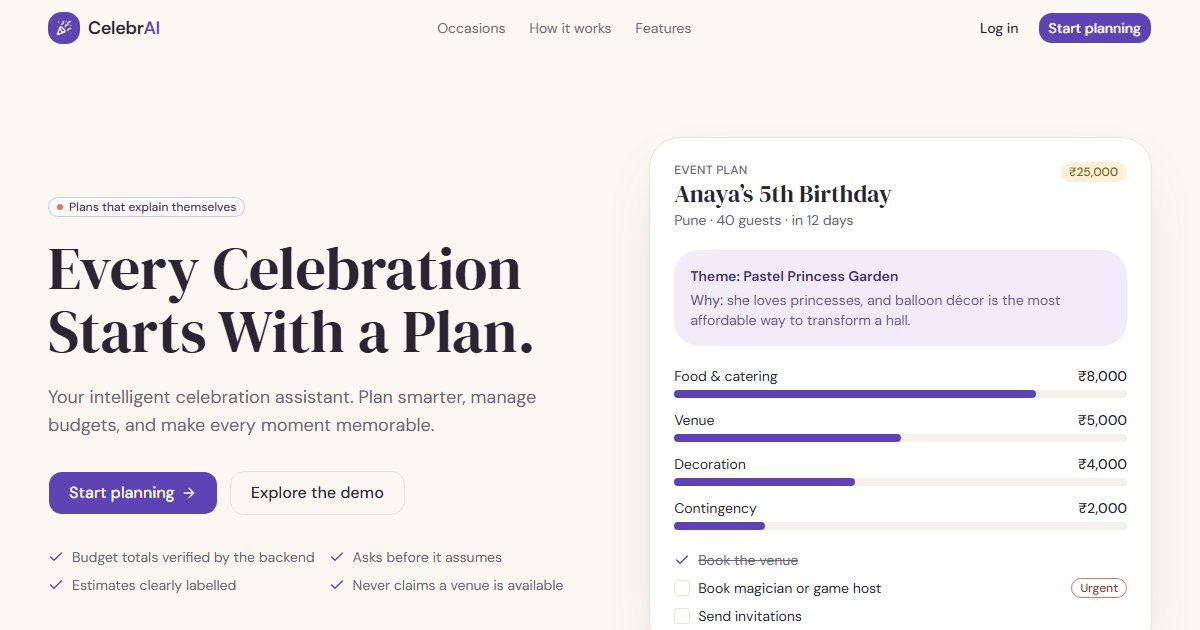
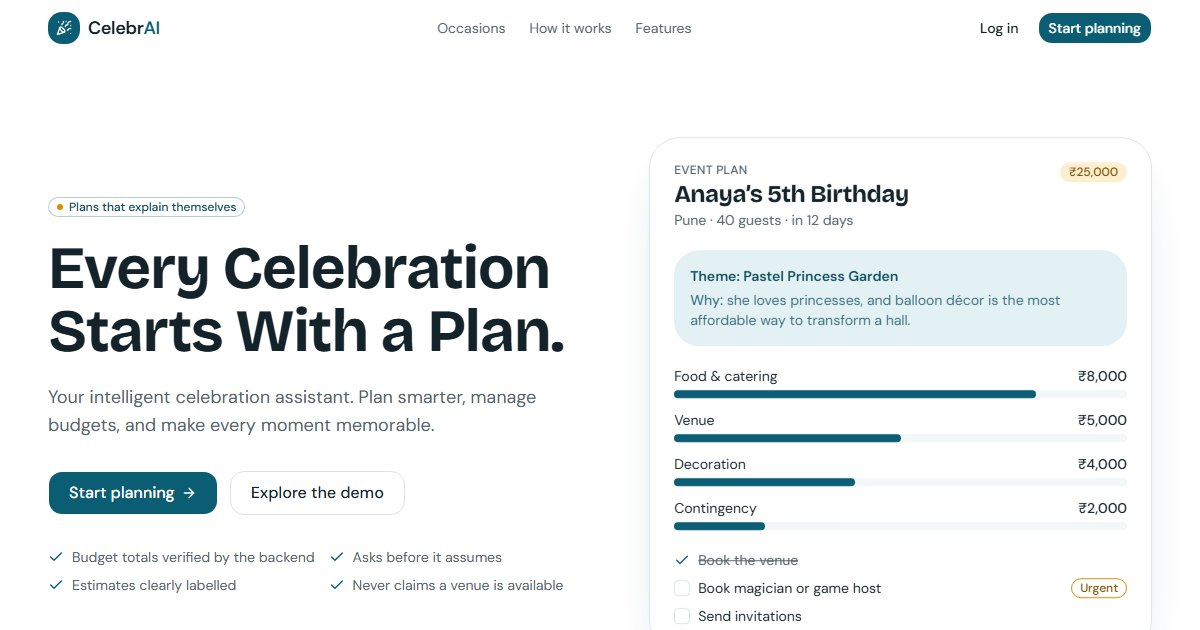
design: Peacock & Marigold refresh
- Palette: peacock blue (#0B5D73) primary with marigold accents on a
  white background, replacing violet, coral and cream. Every text pair
  checked for WCAG AA (lowest 5.13:1).
- Headings: Bricolage Grotesque (self-hosted) instead of DM Serif
  Display.
- Motion: no fade-up on page changes or the hero text; only the plan
  preview card keeps one entrance.
- Favicon, PNG icons, 404 page and the 1200x630 share image updated to
  the new look.

diff --git a/client/src/index.css b/client/src/index.css
@@ -2,12 +2,12 @@
 @import "tw-animate-css";
 @import "shadcn/tailwind.css";
 @import "@fontsource-variable/dm-sans";
-@import "@fontsource/dm-serif-display";
+@import "@fontsource-variable/bricolage-grotesque";
 
 @custom-variant dark (&:is(.dark *));
 
 @theme inline {
-    --font-heading: 'DM Serif Display', Georgia, serif;
+    --font-heading: 'Bricolage Grotesque Variable', system-ui, sans-serif;
     --font-sans: 'DM Sans Variable', system-ui, sans-serif;
     --color-coral: var(--coral);
     --color-coral-soft: var(--coral-soft);
@@ -55,44 +55,44 @@
 }
 
 :root {
-    /* CelebrAI palette: warm ivory, soft purple, coral and gold accents (AA-checked text pairs) */
-    --background: #FBF8F3;
-    --foreground: #2A2433;
+    /* CelebrAI palette: peacock blue with marigold accents on white (AA-checked text pairs) */
+    --background: #FFFFFF;
+    --foreground: #14232A;
     --card: #FFFFFF;
-    --card-foreground: #2A2433;
+    --card-foreground: #14232A;
     --popover: #FFFFFF;
-    --popover-foreground: #2A2433;
-    --primary: #5E43B5;
+    --popover-foreground: #14232A;
+    --primary: #0B5D73;
     --primary-foreground: #FFFFFF;
-    --secondary: #F1ECFA;
-    --secondary-foreground: #3F2D80;
-    --muted: #F4F0EA;
-    --muted-foreground: #6B6474;
-    --accent: #FDEDEA;
-    --accent-foreground: #9C3B2C;
+    --secondary: #E3F1F4;
+    --secondary-foreground: #0A4A5C;
+    --muted: #F4F7F8;
+    --muted-foreground: #52636B;
+    --accent: #FDEFCF;
+    --accent-foreground: #7A4F00;
     --destructive: #B4321F;
-    --border: #E9E2D8;
-    --input: #DDD5CA;
-    --ring: #8B72D6;
-    --coral: #E8735F;
-    --coral-soft: #FDEDEA;
-    --gold: #C9962B;
-    --gold-soft: #FBF0D9;
-    --gold-foreground: #8A6212;
-    --chart-1: #5E43B5;
-    --chart-2: #E8735F;
-    --chart-3: #C9962B;
-    --chart-4: #A794E0;
-    --chart-5: #F3B3A6;
+    --border: #DCE4E7;
+    --input: #CBD6DA;
+    --ring: #3A8FA6;
+    --coral: #D98C0A;
+    --coral-soft: #FDEFCF;
+    --gold: #E9A21C;
+    --gold-soft: #FDEFCF;
+    --gold-foreground: #7A4F00;
+    --chart-1: #0B5D73;
+    --chart-2: #E9A21C;
+    --chart-3: #7FB9C8;
+    --chart-4: #F4C766;
+    --chart-5: #2E8A9E;
     --radius: 0.875rem;
     --sidebar: #FFFFFF;
-    --sidebar-foreground: #2A2433;
-    --sidebar-primary: #5E43B5;
+    --sidebar-foreground: #14232A;
+    --sidebar-primary: #0B5D73;
     --sidebar-primary-foreground: #FFFFFF;
-    --sidebar-accent: #F1ECFA;
-    --sidebar-accent-foreground: #3F2D80;
-    --sidebar-border: #E9E2D8;
-    --sidebar-ring: #8B72D6;
+    --sidebar-accent: #E3F1F4;
+    --sidebar-accent-foreground: #0A4A5C;
+    --sidebar-border: #DCE4E7;
+    --sidebar-ring: #3A8FA6;
 }
 
 @layer base {
@@ -107,6 +107,11 @@
     }
   h1, h2, h3 {
     text-wrap: balance;
+  }
+  /* Bricolage needs weight and tighter tracking to read as a display face (utilities still override). */
+  .font-heading {
+    font-weight: 700;
+    letter-spacing: -0.02em;
   }
 }
 

diff --git a/client/src/features/landing/LandingPage.tsx b/client/src/features/landing/LandingPage.tsx
@@ -1,5 +1,4 @@
 import { ArrowRight, Check } from 'lucide-react'
-import * as m from 'motion/react-m'
 import { useState } from 'react'
 import { Link, useNavigate } from 'react-router'
 import { toast } from 'sonner'
@@ -60,7 +59,7 @@ export default function LandingPage() {
 
       <main>
         <section className="mx-auto grid max-w-6xl items-center gap-12 px-4 pt-12 pb-20 sm:px-6 lg:grid-cols-[1.1fr_1fr] lg:pt-20">
-          <m.div initial={{ opacity: 0, y: 12 }} animate={{ opacity: 1, y: 0 }} transition={{ duration: 0.4 }}>
+          <div>
             <Badge variant="outline" className="mb-5 gap-1.5 border-primary/30 bg-card text-secondary-foreground">
               <span className="size-1.5 rounded-full bg-coral" aria-hidden="true" />
               Plans that explain themselves
@@ -97,7 +96,7 @@ export default function LandingPage() {
                 </li>
               ))}
             </ul>
-          </m.div>
+          </div>
           <PlanPreview />
         </section>
 

diff --git a/client/src/app/AppShell.tsx b/client/src/app/AppShell.tsx
@@ -1,5 +1,4 @@
 import { CalendarPlus, Info, LayoutDashboard, LogOut, Menu, Settings, Sparkles } from 'lucide-react'
-import * as m from 'motion/react-m'
 import { useState } from 'react'
 import { Link, Navigate, NavLink, Outlet, useLocation, useNavigation } from 'react-router'
 import { Logo } from '@/components/Logo'
@@ -137,16 +136,13 @@ export default function AppShell() {
         </aside>
       )}
 
-      <m.main
+      <main
         id="main"
         key={pathname.split('/').slice(0, 3).join('/')}
-        initial={{ opacity: 0, y: 6 }}
-        animate={{ opacity: 1, y: 0 }}
-        transition={{ duration: 0.2 }}
         className="mx-auto w-full max-w-6xl px-4 py-6 sm:px-6 lg:py-8"
       >
         <Outlet />
-      </m.main>
+      </main>
     </div>
   )
 }

diff --git a/client/src/features/landing/PlanPreview.tsx b/client/src/features/landing/PlanPreview.tsx
@@ -15,7 +15,7 @@ export function PlanPreview() {
       initial={{ opacity: 0, y: 16 }}
       animate={{ opacity: 1, y: 0 }}
       transition={{ duration: 0.5, delay: 0.1 }}
-      className="relative rounded-3xl border bg-card p-5 shadow-[0_24px_60px_-28px_rgb(94_67_181/0.35)] sm:p-6"
+      className="relative rounded-3xl border bg-card p-5 shadow-[0_24px_60px_-28px_rgb(11_93_115/0.30)] sm:p-6"
     >
       <figcaption className="sr-only">Example of a generated plan for a children’s birthday party</figcaption>
       <div className="flex items-start justify-between gap-3">

diff --git a/client/public/404.html b/client/public/404.html
@@ -14,8 +14,8 @@
         place-items: center;
         padding: 16px;
         font-family: system-ui, sans-serif;
-        background: #fbf8f4;
-        color: #2a2438;
+        background: #ffffff;
+        color: #14232a;
         text-align: center;
       }
       a {
@@ -23,7 +23,7 @@
         margin-top: 16px;
         padding: 10px 18px;
         border-radius: 8px;
-        background: #5e43b5;
+        background: #0b5d73;
         color: #fff;
         text-decoration: none;
       }
